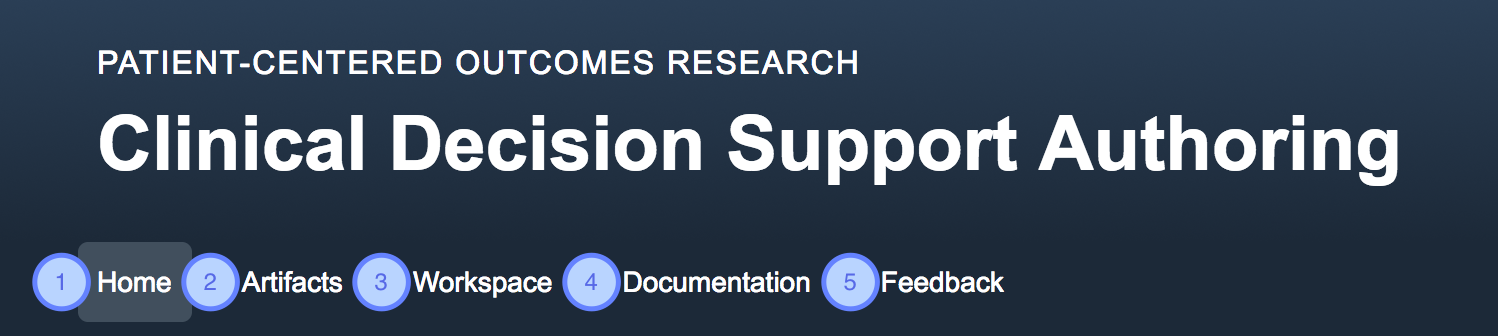
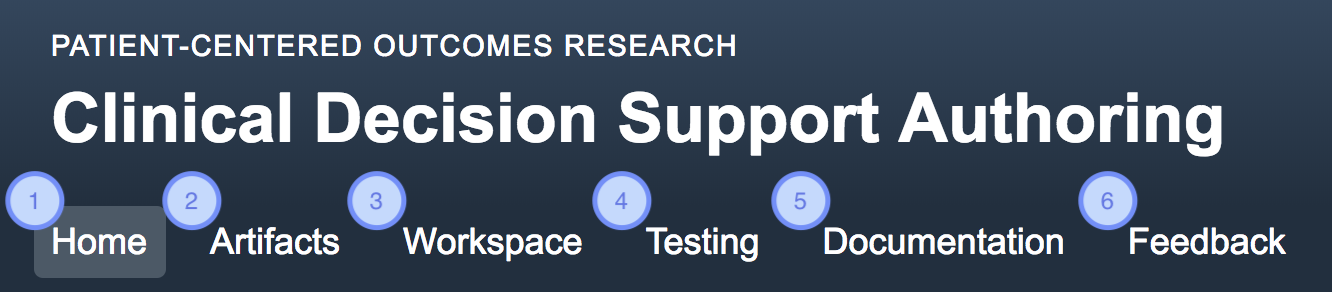
Add documentation for user-facing testing

diff --git a/frontend/src/components/UserGuide.js b/frontend/src/components/UserGuide.js
@@ -155,6 +155,7 @@ export default class UserGuide extends Component {
                     <li>Clicking "Home" returns user to Homepage.</li>
                     <li>Clicking "Artifacts" navigates to the Artifacts page.</li>
                     <li>Clicking "Workspace" navigates to the Workspace page with a new, blank artifact.</li>
+                    <li>Clicking "Testing" navigates to the Testing page.</li>
                     <li>Clicking "Documentation" opens the CDS Authoring Tool User Guide.</li>
 
                     <li>
@@ -1054,6 +1055,165 @@ export default class UserGuide extends Component {
                   </li>
 
                   <li>The user-defined Subpopulations and Parameters will be displayed along with the three default options.</li>
+                </ol>
+              </div>
+            </div>
+
+            <div className="h2-wrapper">
+              <h2 id="Testing_Artifacts">4. Testing Artifacts</h2>
+
+              <div className="h3-wrapper">
+                <h3 id="Testing_Page">4.1 Testing Page</h3>
+
+                <p>
+                  The Testing tab is the main location to test that Artifacts are behaving as expected when their CQL is executed
+                  against a Patient.
+                </p>
+
+                <p>
+                  <img
+                    alt="Testing Artifacts"
+                    src={screenshotUrl('Testing_Artifacts')}
+                  className="img-fluid img-thumbnail rounded mx-auto d-block" />
+                </p>
+
+                <ol>
+                  <li>
+                    The upload area allows the user to upload Patients that can be used for testing CQL made from Artifacts.
+                    Note that the Patients must be contained in FHIR DSTU2 Bundles, in JSON format. To easily generate synthetic
+                    patients in this format, see <a target="_blank" rel="nofollow noopener noreferrer"
+                    onClick={onVisitExternalLink} href="https://github.com/synthetichealth/synthea">Synthea </a>
+                    <i className="fa fa-external-link"></i>.
+                  </li>
+
+                  <li>
+                    A banner indicating that the user must log in to VSAC to execute CQL on a Patient.
+                  </li>
+
+                  <li>
+                    A button that opens a modal, allowing the user to authenticate to VSAC.
+                  </li>
+
+                  <li>
+                    A table that displays some information about any Patients associated to the user that are already in the
+                    database.
+                  </li>
+
+                  <li>
+                    A "View" button that displays for a Patient, which opens a modal to view the JSON FHIR DSTU2 Bundle in detail.
+                  </li>
+
+                  <li>
+                    A disabled "Execute CQL" button that will only be enabled once the user has authenticated with VSAC.
+                  </li>
+
+                  <li>
+                    A "Delete" button that will open a modal allowing the user to delete the Patient from the database.
+                  </li>
+                </ol>
+
+                <p>
+                  After the user successfully authenticates with VSAC, CQL execution is possible.
+                </p>
+
+                <p>
+                  <img
+                    alt="Testing Authenticated"
+                    src={screenshotUrl('Testing_Authenticated')}
+                  className="img-fluid img-thumbnail rounded mx-auto d-block" />
+                </p>
+
+                <ol>
+                  <li>
+                    The banner has now changed to indicate that CQL execution on a Patient is possible.
+                  </li>
+
+                  <li>
+                    The button for VSAC authentication now indicates that the authentication is complete.
+                  </li>
+
+                  <li>
+                    The "Execute CQL" button for each Patient is now enabled. Clicking on this button opens the Execute CQL Modal.
+                  </li>
+                </ol>
+              </div>
+
+              <div className="h3-wrapper">
+                <h3 id="Execute_CQL_Modal">4.2 Execute CQL Modal</h3>
+
+                <p>
+                  The Execute CQL Modal allows the user to choose an Artifact whose CQL should be run against the selected
+                  Patient.
+                </p>
+     
+                <p>
+                  <img
+                    alt="Execute CQL Modal"
+                    src={screenshotUrl('Execute_CQL_Modal')}
+                  className="img-fluid img-thumbnail rounded mx-auto d-block" />
+                </p>
+
+                <ol>
+                  <li>
+                    The name of the Patient that was chosen for CQL execution.
+                  </li>
+
+                  <li>
+                    A dropdown that displays all the user's Artifacts, allowing the user to choose which Artifact should be used
+                    for CQL execution.
+                  </li>
+
+                  <li>
+                    The "Execute CQL" button which runs the selected Artifact's CQL against the selected Patient for testing.
+                  </li>
+                </ol>
+              </div>
+
+              <div className="h3-wrapper">
+                <h3 id="CQL_Execution_Results">4.3 CQL Execution Results</h3>
+
+                <p>
+                  After CQL execution is finished, the results of the CQL execution are displayed.
+                </p>
+
+                <p>
+                  <img
+                    alt="CQL Execution Results"
+                    src={screenshotUrl('CQL_Execution_Results')}
+                  className="img-fluid img-thumbnail rounded mx-auto d-block" />
+                </p>
+
+                <ol>
+                  <li>
+                    The name of the Patient that was used for testing.
+                  </li>
+
+                  <li>
+                    The name of the Artifact whose CQL was tested.
+                  </li>
+
+                  <li>
+                    An indication of whether the Patient met the Artifact's inclusion criteria. In this case, the Patient did meet
+                    the inclusion criteria.
+                  </li>
+
+                    <li>
+                    An indication of whether the Patient met the Artifact's exclusion criteria. In this case, the Patient did not
+                    meet the exclusion criteria.
+                  </li>
+
+                  <li>
+                    The Recommendation from the Artifact, given the result of the CQL execution.
+                  </li>
+
+                  <li>
+                    The Rationale for the Recommendation from the Artifact.
+                  </li>
+
+
+                  <li>
+                    Any Errors that occurred during the CQL Execution. In this case, there were no errors.
+                  </li>
                 </ol>
               </div>
             </div>
